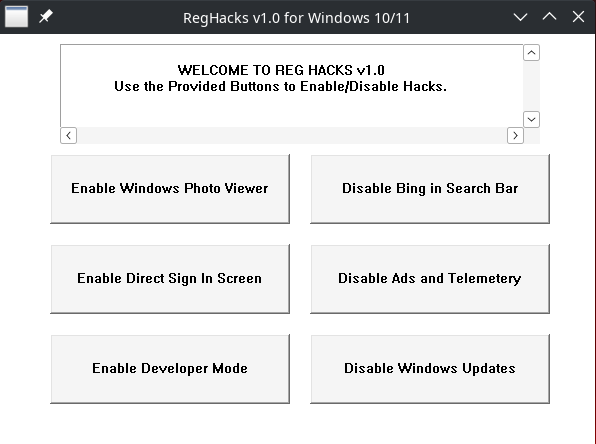
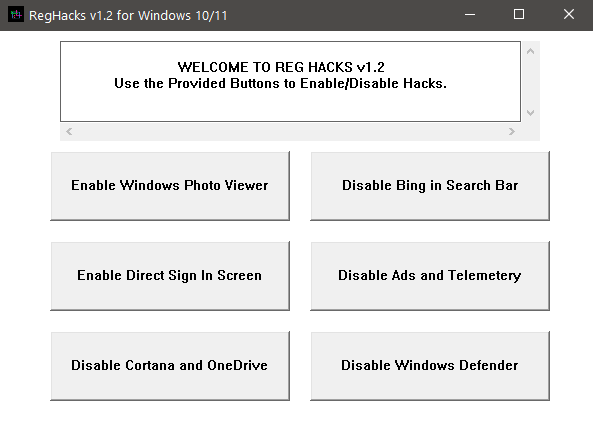
v1.2 - 100% working now

diff --git a/hacks/b1.reg.cpp b/hacks/b1.reg.cpp
@@ -1,3 +1,2 @@
 #pragma once
-constexpr size_t b1_reg_sz {2143};
-constexpr uint8_t b1_reg[] {87,105,110,100,111,119,115,32,82,101,103,105,115,116,114,121,32,69,100,105,116,111,114,32,86,101,114,115,105,111,110,32,53,46,48,48,13,10,13,10,91,72,75,69,89,95,67,76,65,83,83,69,83,95,82,79,79,84,92,65,112,112,108,105,99,97,116,105,111,110,115,92,112,104,111,116,111,118,105,101,119,101,114,46,100,108,108,93,13,10,13,10,91,72,75,69,89,95,67,76,65,83,83,69,83,95,82,79,79,84,92,65,112,112,108,105,99,97,116,105,111,110,115,92,112,104,111,116,111,118,105,101,119,101,114,46,100,108,108,92,115,104,101,108,108,93,13,10,13,10,91,72,75,69,89,95,67,76,65,83,83,69,83,95,82,79,79,84,92,65,112,112,108,105,99,97,116,105,111,110,115,92,112,104,111,116,111,118,105,101,119,101,114,46,100,108,108,92,115,104,101,108,108,92,111,112,101,110,93,13,10,34,77,117,105,86,101,114,98,34,61,34,64,112,104,111,116,111,118,105,101,119,101,114,46,100,108,108,44,45,51,48,52,51,34,13,10,13,10,91,72,75,69,89,95,67,76,65,83,83,69,83,95,82,79,79,84,92,65,112,112,108,105,99,97,116,105,111,110,115,92,112,104,111,116,111,118,105,101,119,101,114,46,100,108,108,92,115,104,101,108,108,92,111,112,101,110,92,99,111,109,109,97,110,100,93,13,10,64,61,104,101,120,40,50,41,58,50,53,44,48,48,44,53,51,44,48,48,44,55,57,44,48,48,44,55,51,44,48,48,44,55,52,44,48,48,44,54,53,44,48,48,44,54,100,44,48,48,44,53,50,44,48,48,44,54,102,44,48,48,44,54,102,44,48,48,44,55,52,44,48,48,44,50,53,44,92,13,10,48,48,44,53,99,44,48,48,44,53,51,44,48,48,44,55,57,44,48,48,44,55,51,44,48,48,44,55,52,44,48,48,44,54,53,44,48,48,44,54,100,44,48,48,44,51,51,44,48,48,44,51,50,44,48,48,44,53,99,44,48,48,44,55,50,44,48,48,44,55,53,44,48,48,44,92,13,10,54,101,44,48,48,44,54,52,44,48,48,44,54,99,44,48,48,44,54,99,44,48,48,44,51,51,44,48,48,44,51,50,44,48,48,44,50,101,44,48,48,44,54,53,44,48,48,44,55,56,44,48,48,44,54,53,44,48,48,44,50,48,44,48,48,44,50,50,44,48,48,44,50,53,44,92,13,10,48,48,44,53,48,44,48,48,44,55,50,44,48,48,44,54,102,44,48,48,44,54,55,44,48,48,44,55,50,44,48,48,44,54,49,44,48,48,44,54,100,44,48,48,44,52,54,44,48,48,44,54,57,44,48,48,44,54,99,44,48,48,44,54,53,44,48,48,44,55,51,44,48,48,44,92,13,10,50,53,44,48,48,44,53,99,44,48,48,44,53,55,44,48,48,44,54,57,44,48,48,44,54,101,44,48,48,44,54,52,44,48,48,44,54,102,44,48,48,44,55,55,44,48,48,44,55,51,44,48,48,44,50,48,44,48,48,44,53,48,44,48,48,44,54,56,44,48,48,44,54,102,44,92,13,10,48,48,44,55,52,44,48,48,44,54,102,44,48,48,44,50,48,44,48,48,44,53,54,44,48,48,44,54,57,44,48,48,44,54,53,44,48,48,44,55,55,44,48,48,44,54,53,44,48,48,44,55,50,44,48,48,44,53,99,44,48,48,44,53,48,44,48,48,44,54,56,44,48,48,44,92,13,10,54,102,44,48,48,44,55,52,44,48,48,44,54,102,44,48,48,44,53,54,44,48,48,44,54,57,44,48,48,44,54,53,44,48,48,44,55,55,44,48,48,44,54,53,44,48,48,44,55,50,44,48,48,44,50,101,44,48,48,44,54,52,44,48,48,44,54,99,44,48,48,44,54,99,44,92,13,10,48,48,44,50,50,44,48,48,44,50,99,44,48,48,44,50,48,44,48,48,44,52,57,44,48,48,44,54,100,44,48,48,44,54,49,44,48,48,44,54,55,44,48,48,44,54,53,44,48,48,44,53,54,44,48,48,44,54,57,44,48,48,44,54,53,44,48,48,44,55,55,44,48,48,44,92,13,10,53,102,44,48,48,44,52,54,44,48,48,44,55,53,44,48,48,44,54,99,44,48,48,44,54,99,44,48,48,44,55,51,44,48,48,44,54,51,44,48,48,44,55,50,44,48,48,44,54,53,44,48,48,44,54,53,44,48,48,44,54,101,44,48,48,44,50,48,44,48,48,44,50,53,44,92,13,10,48,48,44,51,49,44,48,48,44,48,48,44,48,48,13,10,13,10,91,72,75,69,89,95,67,76,65,83,83,69,83,95,82,79,79,84,92,65,112,112,108,105,99,97,116,105,111,110,115,92,112,104,111,116,111,118,105,101,119,101,114,46,100,108,108,92,115,104,101,108,108,92,111,112,101,110,92,68,114,111,112,84,97,114,103,101,116,93,13,10,34,67,108,115,105,100,34,61,34,123,70,70,69,50,65,52,51,67,45,53,54,66,57,45,52,98,102,53,45,57,65,55,57,45,67,67,54,68,52,50,56,53,54,48,56,65,125,34,13,10,13,10,91,72,75,69,89,95,67,76,65,83,83,69,83,95,82,79,79,84,92,65,112,112,108,105,99,97,116,105,111,110,115,92,112,104,111,116,111,118,105,101,119,101,114,46,100,108,108,92,115,104,101,108,108,92,112,114,105,110,116,93,13,10,13,10,91,72,75,69,89,95,67,76,65,83,83,69,83,95,82,79,79,84,92,65,112,112,108,105,99,97,116,105,111,110,115,92,112,104,111,116,111,118,105,101,119,101,114,46,100,108,108,92,115,104,101,108,108,92,112,114,105,110,116,92,99,111,109,109,97,110,100,93,13,10,64,61,104,101,120,40,50,41,58,50,53,44,48,48,44,53,51,44,48,48,44,55,57,44,48,48,44,55,51,44,48,48,44,55,52,44,48,48,44,54,53,44,48,48,44,54,100,44,48,48,44,53,50,44,48,48,44,54,102,44,48,48,44,54,102,44,48,48,44,55,52,44,48,48,44,50,53,44,92,13,10,48,48,44,53,99,44,48,48,44,53,51,44,48,48,44,55,57,44,48,48,44,55,51,44,48,48,44,55,52,44,48,48,44,54,53,44,48,48,44,54,100,44,48,48,44,51,51,44,48,48,44,51,50,44,48,48,44,53,99,44,48,48,44,55,50,44,48,48,44,55,53,44,48,48,44,92,13,10,54,101,44,48,48,44,54,52,44,48,48,44,54,99,44,48,48,44,54,99,44,48,48,44,51,51,44,48,48,44,51,50,44,48,48,44,50,101,44,48,48,44,54,53,44,48,48,44,55,56,44,48,48,44,54,53,44,48,48,44,50,48,44,48,48,44,50,50,44,48,48,44,50,53,44,92,13,10,48,48,44,53,48,44,48,48,44,55,50,44,48,48,44,54,102,44,48,48,44,54,55,44,48,48,44,55,50,44,48,48,44,54,49,44,48,48,44,54,100,44,48,48,44,52,54,44,48,48,44,54,57,44,48,48,44,54,99,44,48,48,44,54,53,44,48,48,44,55,51,44,48,48,44,92,13,10,50,53,44,48,48,44,53,99,44,48,48,44,53,55,44,48,48,44,54,57,44,48,48,44,54,101,44,48,48,44,54,52,44,48,48,44,54,102,44,48,48,44,55,55,44,48,48,44,55,51,44,48,48,44,50,48,44,48,48,44,53,48,44,48,48,44,54,56,44,48,48,44,54,102,44,92,13,10,48,48,44,55,52,44,48,48,44,54,102,44,48,48,44,50,48,44,48,48,44,53,54,44,48,48,44,54,57,44,48,48,44,54,53,44,48,48,44,55,55,44,48,48,44,54,53,44,48,48,44,55,50,44,48,48,44,53,99,44,48,48,44,53,48,44,48,48,44,54,56,44,48,48,44,92,13,10,54,102,44,48,48,44,55,52,44,48,48,44,54,102,44,48,48,44,53,54,44,48,48,44,54,57,44,48,48,44,54,53,44,48,48,44,55,55,44,48,48,44,54,53,44,48,48,44,55,50,44,48,48,44,50,101,44,48,48,44,54,52,44,48,48,44,54,99,44,48,48,44,54,99,44,92,13,10,48,48,44,50,50,44,48,48,44,50,99,44,48,48,44,50,48,44,48,48,44,52,57,44,48,48,44,54,100,44,48,48,44,54,49,44,48,48,44,54,55,44,48,48,44,54,53,44,48,48,44,53,54,44,48,48,44,54,57,44,48,48,44,54,53,44,48,48,44,55,55,44,48,48,44,92,13,10,53,102,44,48,48,44,52,54,44,48,48,44,55,53,44,48,48,44,54,99,44,48,48,44,54,99,44,48,48,44,55,51,44,48,48,44,54,51,44,48,48,44,55,50,44,48,48,44,54,53,44,48,48,44,54,53,44,48,48,44,54,101,44,48,48,44,50,48,44,48,48,44,50,53,44,92,13,10,48,48,44,51,49,44,48,48,44,48,48,44,48,48,13,10,13,10,91,72,75,69,89,95,67,76,65,83,83,69,83,95,82,79,79,84,92,65,112,112,108,105,99,97,116,105,111,110,115,92,112,104,111,116,111,118,105,101,119,101,114,46,100,108,108,92,115,104,101,108,108,92,112,114,105,110,116,92,68,114,111,112,84,97,114,103,101,116,93,13,10,34,67,108,115,105,100,34,61,34,123,54,48,102,100,52,54,100,101,45,102,56,51,48,45,52,56,57,52,45,97,54,50,56,45,54,102,97,56,49,98,99,48,49,57,48,100,125,34};
+constexpr unsigned char b1_reg[] {87,105,110,100,111,119,115,32,82,101,103,105,115,116,114,121,32,69,100,105,116,111,114,32,86,101,114,115,105,111,110,32,53,46,48,48,10,10,91,72,75,69,89,95,67,76,65,83,83,69,83,95,82,79,79,84,92,65,112,112,108,105,99,97,116,105,111,110,115,92,112,104,111,116,111,118,105,101,119,101,114,46,100,108,108,93,10,10,91,72,75,69,89,95,67,76,65,83,83,69,83,95,82,79,79,84,92,65,112,112,108,105,99,97,116,105,111,110,115,92,112,104,111,116,111,118,105,101,119,101,114,46,100,108,108,92,115,104,101,108,108,93,10,10,91,72,75,69,89,95,67,76,65,83,83,69,83,95,82,79,79,84,92,65,112,112,108,105,99,97,116,105,111,110,115,92,112,104,111,116,111,118,105,101,119,101,114,46,100,108,108,92,115,104,101,108,108,92,111,112,101,110,93,10,34,77,117,105,86,101,114,98,34,61,34,64,112,104,111,116,111,118,105,101,119,101,114,46,100,108,108,44,45,51,48,52,51,34,10,10,91,72,75,69,89,95,67,76,65,83,83,69,83,95,82,79,79,84,92,65,112,112,108,105,99,97,116,105,111,110,115,92,112,104,111,116,111,118,105,101,119,101,114,46,100,108,108,92,115,104,101,108,108,92,111,112,101,110,92,99,111,109,109,97,110,100,93,10,64,61,104,101,120,40,50,41,58,50,53,44,48,48,44,53,51,44,48,48,44,55,57,44,48,48,44,55,51,44,48,48,44,55,52,44,48,48,44,54,53,44,48,48,44,54,100,44,48,48,44,53,50,44,48,48,44,54,102,44,48,48,44,54,102,44,48,48,44,55,52,44,48,48,44,50,53,44,92,10,48,48,44,53,99,44,48,48,44,53,51,44,48,48,44,55,57,44,48,48,44,55,51,44,48,48,44,55,52,44,48,48,44,54,53,44,48,48,44,54,100,44,48,48,44,51,51,44,48,48,44,51,50,44,48,48,44,53,99,44,48,48,44,55,50,44,48,48,44,55,53,44,48,48,44,92,10,54,101,44,48,48,44,54,52,44,48,48,44,54,99,44,48,48,44,54,99,44,48,48,44,51,51,44,48,48,44,51,50,44,48,48,44,50,101,44,48,48,44,54,53,44,48,48,44,55,56,44,48,48,44,54,53,44,48,48,44,50,48,44,48,48,44,50,50,44,48,48,44,50,53,44,92,10,48,48,44,53,48,44,48,48,44,55,50,44,48,48,44,54,102,44,48,48,44,54,55,44,48,48,44,55,50,44,48,48,44,54,49,44,48,48,44,54,100,44,48,48,44,52,54,44,48,48,44,54,57,44,48,48,44,54,99,44,48,48,44,54,53,44,48,48,44,55,51,44,48,48,44,92,10,50,53,44,48,48,44,53,99,44,48,48,44,53,55,44,48,48,44,54,57,44,48,48,44,54,101,44,48,48,44,54,52,44,48,48,44,54,102,44,48,48,44,55,55,44,48,48,44,55,51,44,48,48,44,50,48,44,48,48,44,53,48,44,48,48,44,54,56,44,48,48,44,54,102,44,92,10,48,48,44,55,52,44,48,48,44,54,102,44,48,48,44,50,48,44,48,48,44,53,54,44,48,48,44,54,57,44,48,48,44,54,53,44,48,48,44,55,55,44,48,48,44,54,53,44,48,48,44,55,50,44,48,48,44,53,99,44,48,48,44,53,48,44,48,48,44,54,56,44,48,48,44,92,10,54,102,44,48,48,44,55,52,44,48,48,44,54,102,44,48,48,44,53,54,44,48,48,44,54,57,44,48,48,44,54,53,44,48,48,44,55,55,44,48,48,44,54,53,44,48,48,44,55,50,44,48,48,44,50,101,44,48,48,44,54,52,44,48,48,44,54,99,44,48,48,44,54,99,44,92,10,48,48,44,50,50,44,48,48,44,50,99,44,48,48,44,50,48,44,48,48,44,52,57,44,48,48,44,54,100,44,48,48,44,54,49,44,48,48,44,54,55,44,48,48,44,54,53,44,48,48,44,53,54,44,48,48,44,54,57,44,48,48,44,54,53,44,48,48,44,55,55,44,48,48,44,92,10,53,102,44,48,48,44,52,54,44,48,48,44,55,53,44,48,48,44,54,99,44,48,48,44,54,99,44,48,48,44,55,51,44,48,48,44,54,51,44,48,48,44,55,50,44,48,48,44,54,53,44,48,48,44,54,53,44,48,48,44,54,101,44,48,48,44,50,48,44,48,48,44,50,53,44,92,10,48,48,44,51,49,44,48,48,44,48,48,44,48,48,10,10,91,72,75,69,89,95,67,76,65,83,83,69,83,95,82,79,79,84,92,65,112,112,108,105,99,97,116,105,111,110,115,92,112,104,111,116,111,118,105,101,119,101,114,46,100,108,108,92,115,104,101,108,108,92,111,112,101,110,92,68,114,111,112,84,97,114,103,101,116,93,10,34,67,108,115,105,100,34,61,34,123,70,70,69,50,65,52,51,67,45,53,54,66,57,45,52,98,102,53,45,57,65,55,57,45,67,67,54,68,52,50,56,53,54,48,56,65,125,34,10,10,91,72,75,69,89,95,67,76,65,83,83,69,83,95,82,79,79,84,92,65,112,112,108,105,99,97,116,105,111,110,115,92,112,104,111,116,111,118,105,101,119,101,114,46,100,108,108,92,115,104,101,108,108,92,112,114,105,110,116,93,10,10,91,72,75,69,89,95,67,76,65,83,83,69,83,95,82,79,79,84,92,65,112,112,108,105,99,97,116,105,111,110,115,92,112,104,111,116,111,118,105,101,119,101,114,46,100,108,108,92,115,104,101,108,108,92,112,114,105,110,116,92,99,111,109,109,97,110,100,93,10,64,61,104,101,120,40,50,41,58,50,53,44,48,48,44,53,51,44,48,48,44,55,57,44,48,48,44,55,51,44,48,48,44,55,52,44,48,48,44,54,53,44,48,48,44,54,100,44,48,48,44,53,50,44,48,48,44,54,102,44,48,48,44,54,102,44,48,48,44,55,52,44,48,48,44,50,53,44,92,10,48,48,44,53,99,44,48,48,44,53,51,44,48,48,44,55,57,44,48,48,44,55,51,44,48,48,44,55,52,44,48,48,44,54,53,44,48,48,44,54,100,44,48,48,44,51,51,44,48,48,44,51,50,44,48,48,44,53,99,44,48,48,44,55,50,44,48,48,44,55,53,44,48,48,44,92,10,54,101,44,48,48,44,54,52,44,48,48,44,54,99,44,48,48,44,54,99,44,48,48,44,51,51,44,48,48,44,51,50,44,48,48,44,50,101,44,48,48,44,54,53,44,48,48,44,55,56,44,48,48,44,54,53,44,48,48,44,50,48,44,48,48,44,50,50,44,48,48,44,50,53,44,92,10,48,48,44,53,48,44,48,48,44,55,50,44,48,48,44,54,102,44,48,48,44,54,55,44,48,48,44,55,50,44,48,48,44,54,49,44,48,48,44,54,100,44,48,48,44,52,54,44,48,48,44,54,57,44,48,48,44,54,99,44,48,48,44,54,53,44,48,48,44,55,51,44,48,48,44,92,10,50,53,44,48,48,44,53,99,44,48,48,44,53,55,44,48,48,44,54,57,44,48,48,44,54,101,44,48,48,44,54,52,44,48,48,44,54,102,44,48,48,44,55,55,44,48,48,44,55,51,44,48,48,44,50,48,44,48,48,44,53,48,44,48,48,44,54,56,44,48,48,44,54,102,44,92,10,48,48,44,55,52,44,48,48,44,54,102,44,48,48,44,50,48,44,48,48,44,53,54,44,48,48,44,54,57,44,48,48,44,54,53,44,48,48,44,55,55,44,48,48,44,54,53,44,48,48,44,55,50,44,48,48,44,53,99,44,48,48,44,53,48,44,48,48,44,54,56,44,48,48,44,92,10,54,102,44,48,48,44,55,52,44,48,48,44,54,102,44,48,48,44,53,54,44,48,48,44,54,57,44,48,48,44,54,53,44,48,48,44,55,55,44,48,48,44,54,53,44,48,48,44,55,50,44,48,48,44,50,101,44,48,48,44,54,52,44,48,48,44,54,99,44,48,48,44,54,99,44,92,10,48,48,44,50,50,44,48,48,44,50,99,44,48,48,44,50,48,44,48,48,44,52,57,44,48,48,44,54,100,44,48,48,44,54,49,44,48,48,44,54,55,44,48,48,44,54,53,44,48,48,44,53,54,44,48,48,44,54,57,44,48,48,44,54,53,44,48,48,44,55,55,44,48,48,44,92,10,53,102,44,48,48,44,52,54,44,48,48,44,55,53,44,48,48,44,54,99,44,48,48,44,54,99,44,48,48,44,55,51,44,48,48,44,54,51,44,48,48,44,55,50,44,48,48,44,54,53,44,48,48,44,54,53,44,48,48,44,54,101,44,48,48,44,50,48,44,48,48,44,50,53,44,92,10,48,48,44,51,49,44,48,48,44,48,48,44,48,48,10,10,91,72,75,69,89,95,67,76,65,83,83,69,83,95,82,79,79,84,92,65,112,112,108,105,99,97,116,105,111,110,115,92,112,104,111,116,111,118,105,101,119,101,114,46,100,108,108,92,115,104,101,108,108,92,112,114,105,110,116,92,68,114,111,112,84,97,114,103,101,116,93,10,34,67,108,115,105,100,34,61,34,123,54,48,102,100,52,54,100,101,45,102,56,51,48,45,52,56,57,52,45,97,54,50,56,45,54,102,97,56,49,98,99,48,49,57,48,100,125,34,10};

diff --git a/RegHacks.cpp b/RegHacks.cpp
@@ -14,7 +14,7 @@ namespace fs = std::filesystem;
 HTextArea logs;
 
 const char* reghacks_ascii_art = "\r\n"
-"                             WELCOME TO REG HACKS v1.0\r\n"
+"                             WELCOME TO REG HACKS v1.2\r\n"
 "             Use the Provided Buttons to Enable/Disable Hacks.\r\n";
 
 void clear()
@@ -147,7 +147,7 @@ int WINAPI wWinMain(HINSTANCE hInstance, HINSTANCE hPrevInstance, LPWSTR lpCmdLi
         return 1;
     }
 
-    HFrame frame = HFrame("RegHacks v1.0 for Windows 10/11");
+    HFrame frame = HFrame("RegHacks v1.2 for Windows 10/11");
     frame.setSize(610, 450);
     frame.setDefaultCloseOperation(frame.EXIT_ON_CLOSE);
     
@@ -192,12 +192,12 @@ int WINAPI wWinMain(HINSTANCE hInstance, HINSTANCE hPrevInstance, LPWSTR lpCmdLi
         return 0;
     });
 
-    HButton b5("Disable Windows Updates");
+    HButton b5("Disable Cortana and OneDrive");
     b5.setSize(240, 70);
     b5.setLocation(50, 300);
     b5.addActionListener([](ActionEvent) -> int
     {
-        button_boilerplate(5, "Disabling Windows Updates...");
+        button_boilerplate(5, "Disabling Cortana and OneDrive...");
         return 0;
     });
 
@@ -206,7 +206,8 @@ int WINAPI wWinMain(HINSTANCE hInstance, HINSTANCE hPrevInstance, LPWSTR lpCmdLi
     b6.setLocation(310, 300);
     b6.addActionListener([](ActionEvent) -> int
     {
-        println("Disabling Windows Defender...");
+        clear(); println();
+        print("Disabling Windows Defender...");
         disable_windows_defender();
         println("Done!"); println();
         print("Changes will take Effect after a Reboot!");
@@ -221,7 +222,11 @@ int WINAPI wWinMain(HINSTANCE hInstance, HINSTANCE hPrevInstance, LPWSTR lpCmdLi
     frame.add(&b4);
     frame.add(&b5);
     frame.add(&b6);
+
     frame.setVisible(true);
+    HICON hIcon = LoadIcon(hInstance, MAKEINTRESOURCE(0));
+    SendMessage(frame.hwnd, WM_SETICON, ICON_BIG, (LPARAM)hIcon);
+    SendMessage(frame.hwnd, WM_SETICON, ICON_SMALL, (LPARAM)hIcon);
 
     std::thread([]()
     {

diff --git a/hacks/b2.reg.cpp b/hacks/b2.reg.cpp
@@ -1,3 +1,2 @@
 #pragma once
-constexpr size_t b2_reg_sz {356};
-constexpr uint8_t b2_reg[] {255,254,87,0,105,0,110,0,100,0,111,0,119,0,115,0,32,0,82,0,101,0,103,0,105,0,115,0,116,0,114,0,121,0,32,0,69,0,100,0,105,0,116,0,111,0,114,0,32,0,86,0,101,0,114,0,115,0,105,0,111,0,110,0,32,0,53,0,46,0,48,0,48,0,13,0,10,0,13,0,10,0,91,0,72,0,75,0,69,0,89,0,95,0,67,0,85,0,82,0,82,0,69,0,78,0,84,0,95,0,85,0,83,0,69,0,82,0,92,0,83,0,111,0,102,0,116,0,119,0,97,0,114,0,101,0,92,0,77,0,105,0,99,0,114,0,111,0,115,0,111,0,102,0,116,0,92,0,87,0,105,0,110,0,100,0,111,0,119,0,115,0,92,0,67,0,117,0,114,0,114,0,101,0,110,0,116,0,86,0,101,0,114,0,115,0,105,0,111,0,110,0,92,0,83,0,101,0,97,0,114,0,99,0,104,0,93,0,13,0,10,0,34,0,66,0,105,0,110,0,103,0,83,0,101,0,97,0,114,0,99,0,104,0,69,0,110,0,97,0,98,0,108,0,101,0,100,0,34,0,61,0,100,0,119,0,111,0,114,0,100,0,58,0,48,0,48,0,48,0,48,0,48,0,48,0,48,0,48,0,13,0,10,0,34,0,67,0,111,0,114,0,116,0,97,0,110,0,97,0,67,0,111,0,110,0,115,0,101,0,110,0,116,0,34,0,61,0,100,0,119,0,111,0,114,0,100,0,58,0,48,0,48,0,48,0,48,0,48,0,48,0,48,0,48,0};
+constexpr unsigned char b2_reg[] {87,105,110,100,111,119,115,32,82,101,103,105,115,116,114,121,32,69,100,105,116,111,114,32,86,101,114,115,105,111,110,32,53,46,48,48,10,10,91,72,75,69,89,95,67,85,82,82,69,78,84,95,85,83,69,82,92,83,111,102,116,119,97,114,101,92,77,105,99,114,111,115,111,102,116,92,87,105,110,100,111,119,115,92,67,117,114,114,101,110,116,86,101,114,115,105,111,110,92,83,101,97,114,99,104,93,10,34,66,105,110,103,83,101,97,114,99,104,69,110,97,98,108,101,100,34,61,100,119,111,114,100,58,48,48,48,48,48,48,48,48,10,34,67,111,114,116,97,110,97,67,111,110,115,101,110,116,34,61,100,119,111,114,100,58,48,48,48,48,48,48,48,48,10};

diff --git a/hacks/b4.reg.cpp b/hacks/b4.reg.cpp
@@ -1,0 +1,2 @@
+#pragma once
+constexpr unsigned char b4_reg[] {87,105,110,100,111,119,115,32,82,101,103,105,115,116,114,121,32,69,100,105,116,111,114,32,86,101,114,115,105,111,110,32,53,46,48,48,13,10,13,10,91,72,75,69,89,95,76,79,67,65,76,95,77,65,67,72,73,78,69,92,83,79,70,84,87,65,82,69,92,77,105,99,114,111,115,111,102,116,92,87,105,110,100,111,119,115,92,67,117,114,114,101,110,116,86,101,114,115,105,111,110,92,80,111,108,105,99,105,101,115,92,68,97,116,97,67,111,108,108,101,99,116,105,111,110,93,13,10,34,65,108,108,111,119,84,101,108,101,109,101,116,114,121,34,61,100,119,111,114,100,58,48,13,10,13,10,91,72,75,69,89,95,67,85,82,82,69,78,84,95,85,83,69,82,92,83,111,102,116,119,97,114,101,92,77,105,99,114,111,115,111,102,116,92,87,105,110,100,111,119,115,92,67,117,114,114,101,110,116,86,101,114,115,105,111,110,92,69,120,112,108,111,114,101,114,92,65,100,118,97,110,99,101,100,93,13,10,34,83,104,111,119,83,121,110,99,80,114,111,118,105,100,101,114,78,111,116,105,102,105,99,97,116,105,111,110,115,34,61,100,119,111,114,100,58,48,13,10,13,10,91,72,75,69,89,95,76,79,67,65,76,95,77,65,67,72,73,78,69,92,83,79,70,84,87,65,82,69,92,77,105,99,114,111,115,111,102,116,92,87,105,110,100,111,119,115,92,67,117,114,114,101,110,116,86,101,114,115,105,111,110,92,80,111,108,105,99,105,101,115,92,69,120,112,108,111,114,101,114,93,13,10,34,65,108,108,111,119,79,110,108,105,110,101,84,105,112,115,34,61,100,119,111,114,100,58,48,13,10};

diff --git a/hacks/b3.reg.cpp b/hacks/b3.reg.cpp
@@ -1,3 +1,2 @@
 #pragma once
-constexpr size_t b3_reg_sz {288};
-constexpr uint8_t b3_reg[] {255,254,87,0,105,0,110,0,100,0,111,0,119,0,115,0,32,0,82,0,101,0,103,0,105,0,115,0,116,0,114,0,121,0,32,0,69,0,100,0,105,0,116,0,111,0,114,0,32,0,86,0,101,0,114,0,115,0,105,0,111,0,110,0,32,0,53,0,46,0,48,0,48,0,13,0,10,0,13,0,10,0,91,0,72,0,75,0,69,0,89,0,95,0,76,0,79,0,67,0,65,0,76,0,95,0,77,0,65,0,67,0,72,0,73,0,78,0,69,0,92,0,83,0,79,0,70,0,84,0,87,0,65,0,82,0,69,0,92,0,80,0,111,0,108,0,105,0,99,0,105,0,101,0,115,0,92,0,77,0,105,0,99,0,114,0,111,0,115,0,111,0,102,0,116,0,92,0,87,0,105,0,110,0,100,0,111,0,119,0,115,0,92,0,80,0,101,0,114,0,115,0,111,0,110,0,97,0,108,0,105,0,122,0,97,0,116,0,105,0,111,0,110,0,93,0,13,0,10,0,34,0,78,0,111,0,76,0,111,0,99,0,107,0,83,0,99,0,114,0,101,0,101,0,110,0,34,0,61,0,100,0,119,0,111,0,114,0,100,0,58,0,48,0,48,0,48,0,48,0,48,0,48,0,48,0,49,0};
+constexpr unsigned char b3_reg[] {87,105,110,100,111,119,115,32,82,101,103,105,115,116,114,121,32,69,100,105,116,111,114,32,86,101,114,115,105,111,110,32,53,46,48,48,10,10,91,72,75,69,89,95,76,79,67,65,76,95,77,65,67,72,73,78,69,92,83,79,70,84,87,65,82,69,92,80,111,108,105,99,105,101,115,92,77,105,99,114,111,115,111,102,116,92,87,105,110,100,111,119,115,92,80,101,114,115,111,110,97,108,105,122,97,116,105,111,110,93,10,34,78,111,76,111,99,107,83,99,114,101,101,110,34,61,100,119,111,114,100,58,48,48,48,48,48,48,48,49,10};

diff --git a/hacks/b5.reg.cpp b/hacks/b5.reg.cpp
@@ -1,0 +1,2 @@
+#pragma once
+constexpr unsigned char b5_reg[] {87,105,110,100,111,119,115,32,82,101,103,105,115,116,114,121,32,69,100,105,116,111,114,32,86,101,114,115,105,111,110,32,53,46,48,48,10,10,91,72,75,69,89,95,76,79,67,65,76,95,77,65,67,72,73,78,69,92,83,111,102,116,119,97,114,101,92,80,111,108,105,99,105,101,115,92,77,105,99,114,111,115,111,102,116,92,87,105,110,100,111,119,115,92,79,110,101,68,114,105,118,101,93,10,34,68,105,115,97,98,108,101,70,105,108,101,83,121,110,99,78,71,83,67,34,61,100,119,111,114,100,58,49,10,10,91,72,75,69,89,95,76,79,67,65,76,95,77,65,67,72,73,78,69,92,83,79,70,84,87,65,82,69,92,80,111,108,105,99,105,101,115,92,77,105,99,114,111,115,111,102,116,92,87,105,110,100,111,119,115,92,87,105,110,100,111,119,115,32,83,101,97,114,99,104,93,10,34,65,108,108,111,119,67,111,114,116,97,110,97,34,61,100,119,111,114,100,58,48,10};

diff --git a/hacks/all.h b/hacks/all.h
@@ -3,8 +3,8 @@
 #include "b1.reg.cpp"
 #include "b2.reg.cpp"
 #include "b3.reg.cpp"
-//#include "b4.reg.cpp"
-//#include "b5.reg.cpp"
+#include "b4.reg.cpp"
+#include "b5.reg.cpp"
 
 struct rhe_sz_type
 {
@@ -12,12 +12,12 @@ struct rhe_sz_type
 	size_t size;
 };
 
-constexpr rhe_sz_type rhe_map[7] =
+constexpr rhe_sz_type rhe_map[6]
 {
 	{nullptr, 0},
-	{b1_reg, b1_reg_sz},
-	{b2_reg, b2_reg_sz},
-	{b3_reg, b3_reg_sz},
-//	{b4_reg, b4_reg_sz},
-//	{b5_reg, b5_reg_sz}
+	{b1_reg, sizeof(b1_reg)},
+	{b2_reg, sizeof(b2_reg)},
+	{b3_reg, sizeof(b3_reg)},
+	{b4_reg, sizeof(b4_reg)},
+	{b5_reg, sizeof(b5_reg)}
 };

diff --git a/README.md b/README.md
@@ -5,7 +5,8 @@ Some Registry Hacks for Windows 10 (and 11?)
 
 ![screenshot](screenshot.png)
 
-### Compile Command:
-```
-xxxx-w64-mingw32-g++ -std=c++20 -s -static -flto RegHacks.cpp -o RegHacks.exe -mwindows -municode -lwinmm -Wno-conversion-null
-```
+### Compile Commands:
+1. `xxxx-w64-mingw32-windres RegHacks.rc Resources.o`
+2. `xxxx-w64-mingw32-g++ -std=c++20 -s -static -flto RegHacks.cpp Resources.o -o RegHacks.exe -mwindows -municode -lwinmm -Wno-conversion-null`
+
+##### NOTE: Do not use compiler optimizations, because that optimizes out the gui loop.
